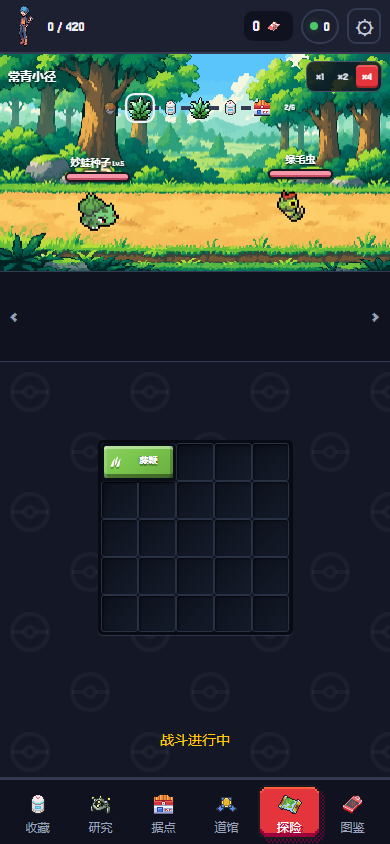
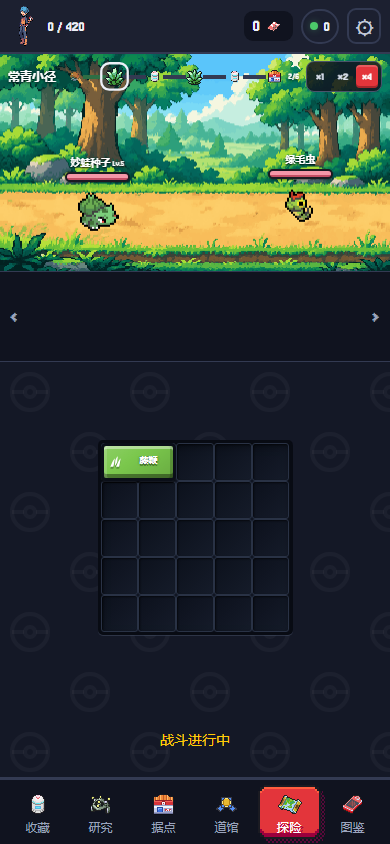
fix(poke): align map route and speed in one row

diff --git a/outputs/laozu-web/poke/app.js b/outputs/laozu-web/poke/app.js
@@ -55,7 +55,7 @@
     }else{
       lower=`<section class="workspace">${board(r)}<div class="pack-footer">${editing?btn('forward','前进','gold'):'<span class="fighting-dot">战斗进行中</span>'}</div></section>`;
     }
-    return `<main class="explore-page phase-${phase}"><h1 class="sr-only">常青小径探险</h1><section class="battle-scene scene"><canvas id="scene" aria-label="常青小径探险战斗场景"></canvas><div class="map-heading"><span>常青小径</span>${speedControl()}</div>${route(r)}<div class="combat-status own"><b>${text(r.mon.speciesId)} <small>Lv.${r.mon.level}</small></b>${hp(r.hp,r.maxHp)}</div>${phase==='battle'?`<div class="combat-status foe"><b>${text(b.speciesId)}</b>${hp(b.hp,b.maxHp)}</div>`:''}<div class="scene-caption">${phase==='battle'?'属性克制 · 招式自动释放':phase==='reward'?'遭遇胜利 · 整理战利品':phase==='settlement'?'本次旅途已记录':'一人一包，继续前行'}</div></section>${messageFeed(r)}${lower}</main>`;
+    return `<main class="explore-page phase-${phase}"><h1 class="sr-only">常青小径探险</h1><section class="battle-scene scene"><canvas id="scene" aria-label="常青小径探险战斗场景"></canvas><div class="map-heading"><span>常青小径</span>${route(r)}${speedControl()}</div><div class="combat-status own"><b>${text(r.mon.speciesId)} <small>Lv.${r.mon.level}</small></b>${hp(r.hp,r.maxHp)}</div>${phase==='battle'?`<div class="combat-status foe"><b>${text(b.speciesId)}</b>${hp(b.hp,b.maxHp)}</div>`:''}<div class="scene-caption">${phase==='battle'?'属性克制 · 招式自动释放':phase==='reward'?'遭遇胜利 · 整理战利品':phase==='settlement'?'本次旅途已记录':'一人一包，继续前行'}</div></section>${messageFeed(r)}${lower}</main>`;
   }
   function collection(){return `<main class="list-page"><div class="page-title"><small>YOUR PARTNERS</small><h1>宝可梦收藏</h1><p>毕业伙伴长期保留。核心探险每次结识新伙伴。</p></div><div class="collection-list">${M.s.collection.length?M.s.collection.map(mon=>`<article class="mon-card">${img(mon.speciesId)}<div><b>${text(mon.speciesId)}</b><p>Lv.${mon.level} · ${M.species(mon.speciesId).types.map(badge).join('')}</p><small>探险 #${mon.originRun} · ${mon.outcome==='graduated'?'毕业':'救援归来'}</small></div></article>`).join(''):'<div class="empty-state">'+icon('collection')+'<h2>第一位伙伴正在路上</h2><p>完成探险，在结算时收入收藏。</p></div>'}</div>${btn('nav:wander',M.s.run?'回到当前探险':'开始新的探险','gold primary')}</main>`;}
   function research(){return `<main class="list-page"><div class="page-title"><small>RESEARCH LAB</small><h1>伙伴研究所</h1><p>每次抽取，都开启一次新的背包构筑。</p></div><div class="research-starters">${[1,4,7].map(id=>`<article>${img(id)}<b>${text(id)}</b>${M.species(id).types.map(badge).join('')}<small>初始 Lv.5 · 概率 1/3</small></article>`).join('')}</div><section class="paper"><h2>抽取与探险</h2><p>首次免费。之后每次消耗3抽取点；每击败一只宝可梦获得2点，立即保存。</p><p>一次常青小径探险包含两场战斗。结算后伙伴收入收藏，背包重新开始。</p><p>若探险中止且不足3点，可领取补足至3点的救援补给。</p></section>${btn('nav:wander',M.s.run?'继续当前探险':'前往抽取','gold primary')}</main>`;}

diff --git a/outputs/laozu-web/poke/battle-ui.css b/outputs/laozu-web/poke/battle-ui.css
@@ -170,3 +170,15 @@
 .reduced-motion *{animation:none!important;transition:none!important}
 @media(max-width:360px){.compact-topbar{gap:5px;padding:4px 7px}.collection-count,.defeat-count{font-size:14px}.compact-topbar .wallet{padding:5px 6px}.compact-topbar .wallet b{font-size:17px}}
 @media(max-height:650px){.message-feed{flex-basis:69px}.feed-content{height:100%}.battle-scene{min-height:190px}}
+
+/* Map name, route/count and speed share one responsive row. */
+.map-heading{gap:7px;flex-wrap:nowrap}
+.map-heading>span,.map-heading>.speed-control{flex:none;white-space:nowrap}
+.map-heading .route{position:static;inset:auto;height:30px;flex:1;min-width:0;gap:0}
+.map-heading .tl-rail{flex:1;min-width:0;gap:3px}
+.map-heading .timeline{flex:1;min-width:0;padding:3px;justify-content:flex-start}
+.map-heading .tl-link{flex:1 1 12px;min-width:2px;width:auto}
+.map-heading .tl-node,.map-heading .tl-node.ev,.map-heading .tl-node.wild{width:17px;height:17px}
+.map-heading .tl-node img{width:17px;height:17px}
+.map-heading .tl-count{margin:0;font-size:10px}
+@media(max-width:360px){.map-heading{left:6px;right:6px;gap:5px;font-size:11px}.map-heading .speed-control{padding:2px;gap:0}.map-heading .speed-control button{padding:3px 4px;font-size:11px}.map-heading .tl-node,.map-heading .tl-node.ev,.map-heading .tl-node.wild,.map-heading .tl-node img{width:15px;height:15px}}

diff --git a/outputs/laozu-web/index.html b/outputs/laozu-web/index.html
@@ -13,7 +13,7 @@
 <script defer src="poke/catalog.js"></script>
 <script defer src="poke/model.js"></script>
 <script defer src="poke/app.js"></script>
-<link rel="stylesheet" href="poke/battle-ui.css?v=10">
+<link rel="stylesheet" href="poke/battle-ui.css?v=11">
 </head>
 <body class="px" data-theme="dark">
 <div id="app" aria-label="宝可梦行囊探险"><main><h1>宝可梦 · 行囊探险</h1><p>正在载入伙伴资料……</p></main></div>

diff --git a/tools/rea-pipeline/poke-fusion/BATTLE-UI.md b/tools/rea-pipeline/poke-fusion/BATTLE-UI.md
@@ -72,3 +72,6 @@
 - 删除可见频道标题、频道标签按钮、暂无消息和占位破折号；仅两侧箭头与横向滑动切换，辅助名称保留在 aria-label。
 - 参考 https://github.com/smogon/pokemon-showdown-client/blob/master/play.pokemonshowdown.com/src/battle-log.ts 的 battle-history / strong / small 层级：真实动作独立一行，招式加粗，伤害和恢复结果缩进为次级行，倒下单独记录。当前为实时冷却战斗，不虚构回合编号、敌方招式或未计算的效果。
 - 世界消息未联网时保持空白。验证22项，包含左右按钮、CDP触屏横向滑动、无标题文字及实际日志输出；桌面浏览器触屏模拟不等于真机验收。
+
+## 地图单行布局（2026-10-23）
+地图名称、路线节点与计数、倍率合并到同一行；路线连接线自适应可用宽度，320px缩小节点和间距。HUD 22项回归通过，已复核320/450截图。
